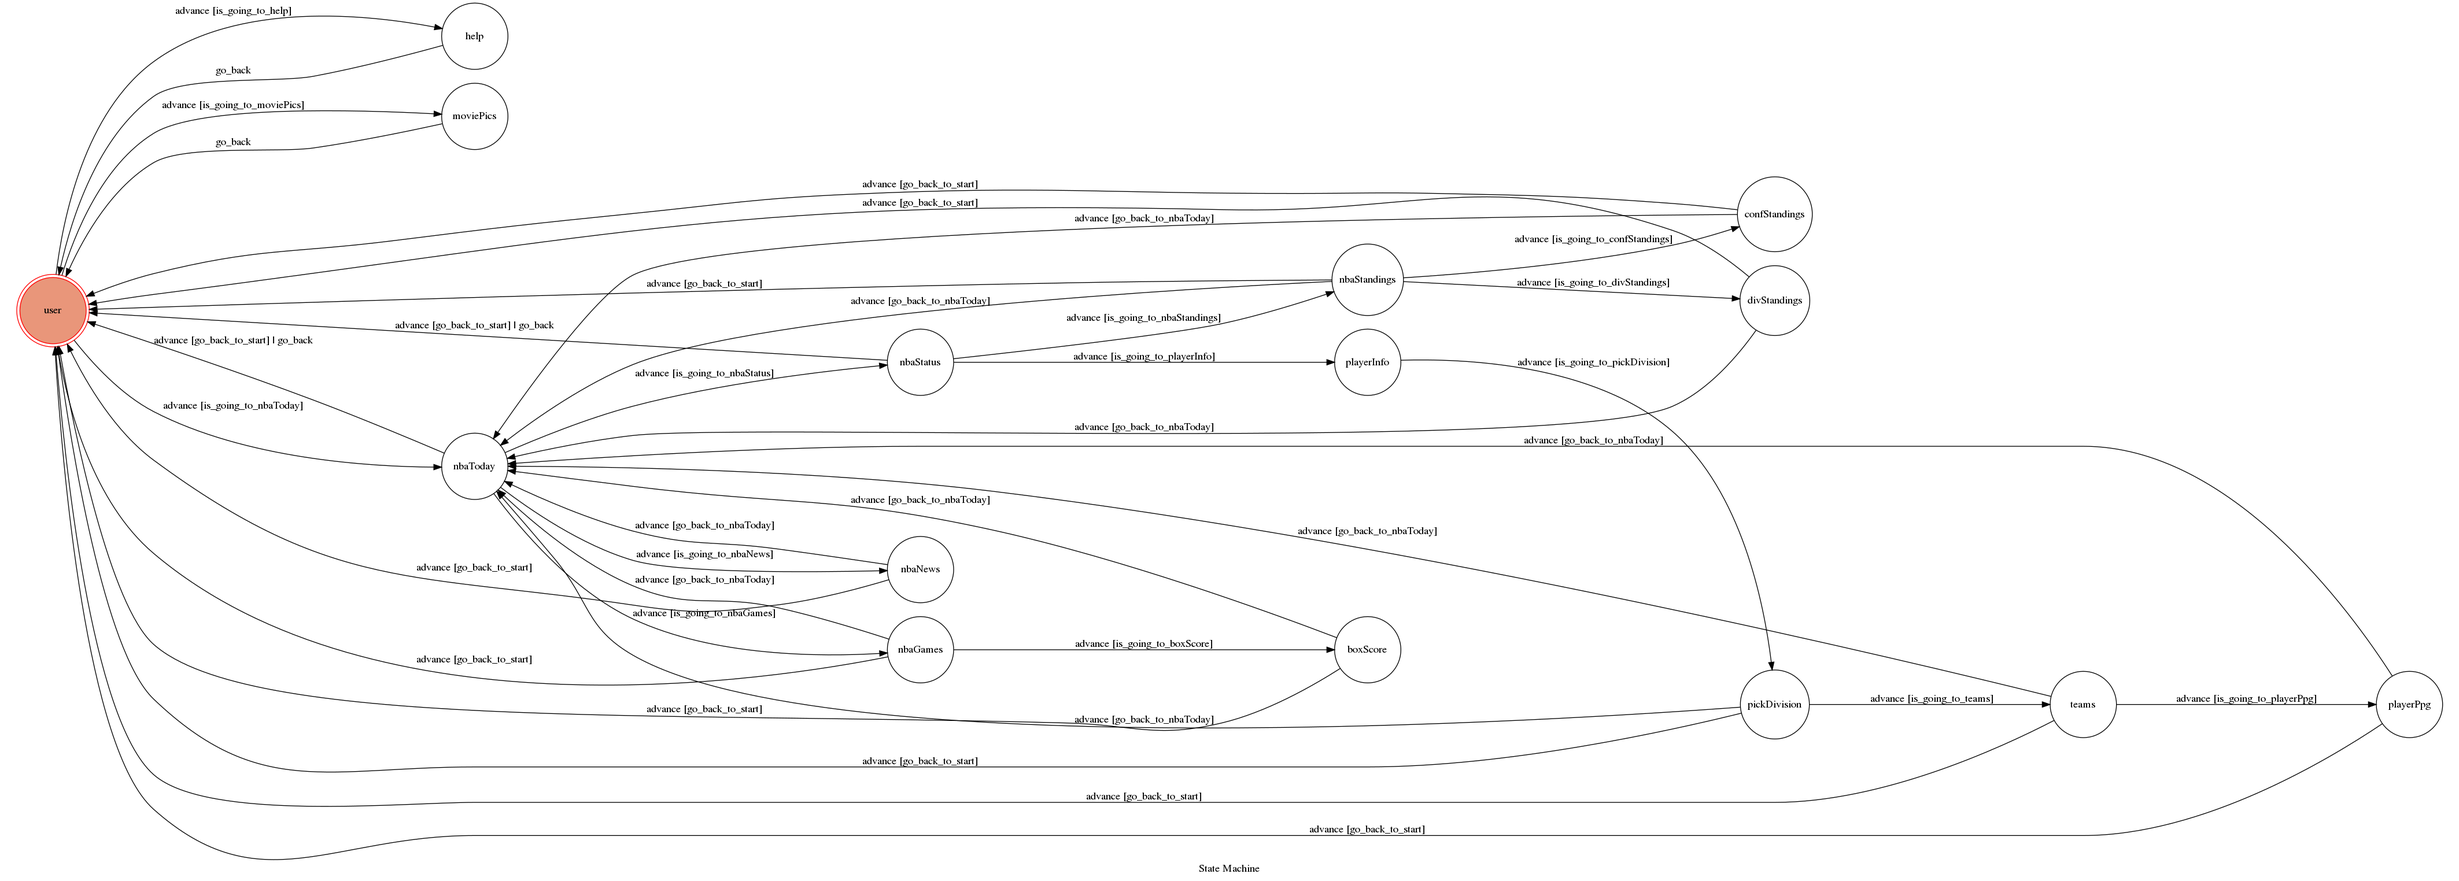
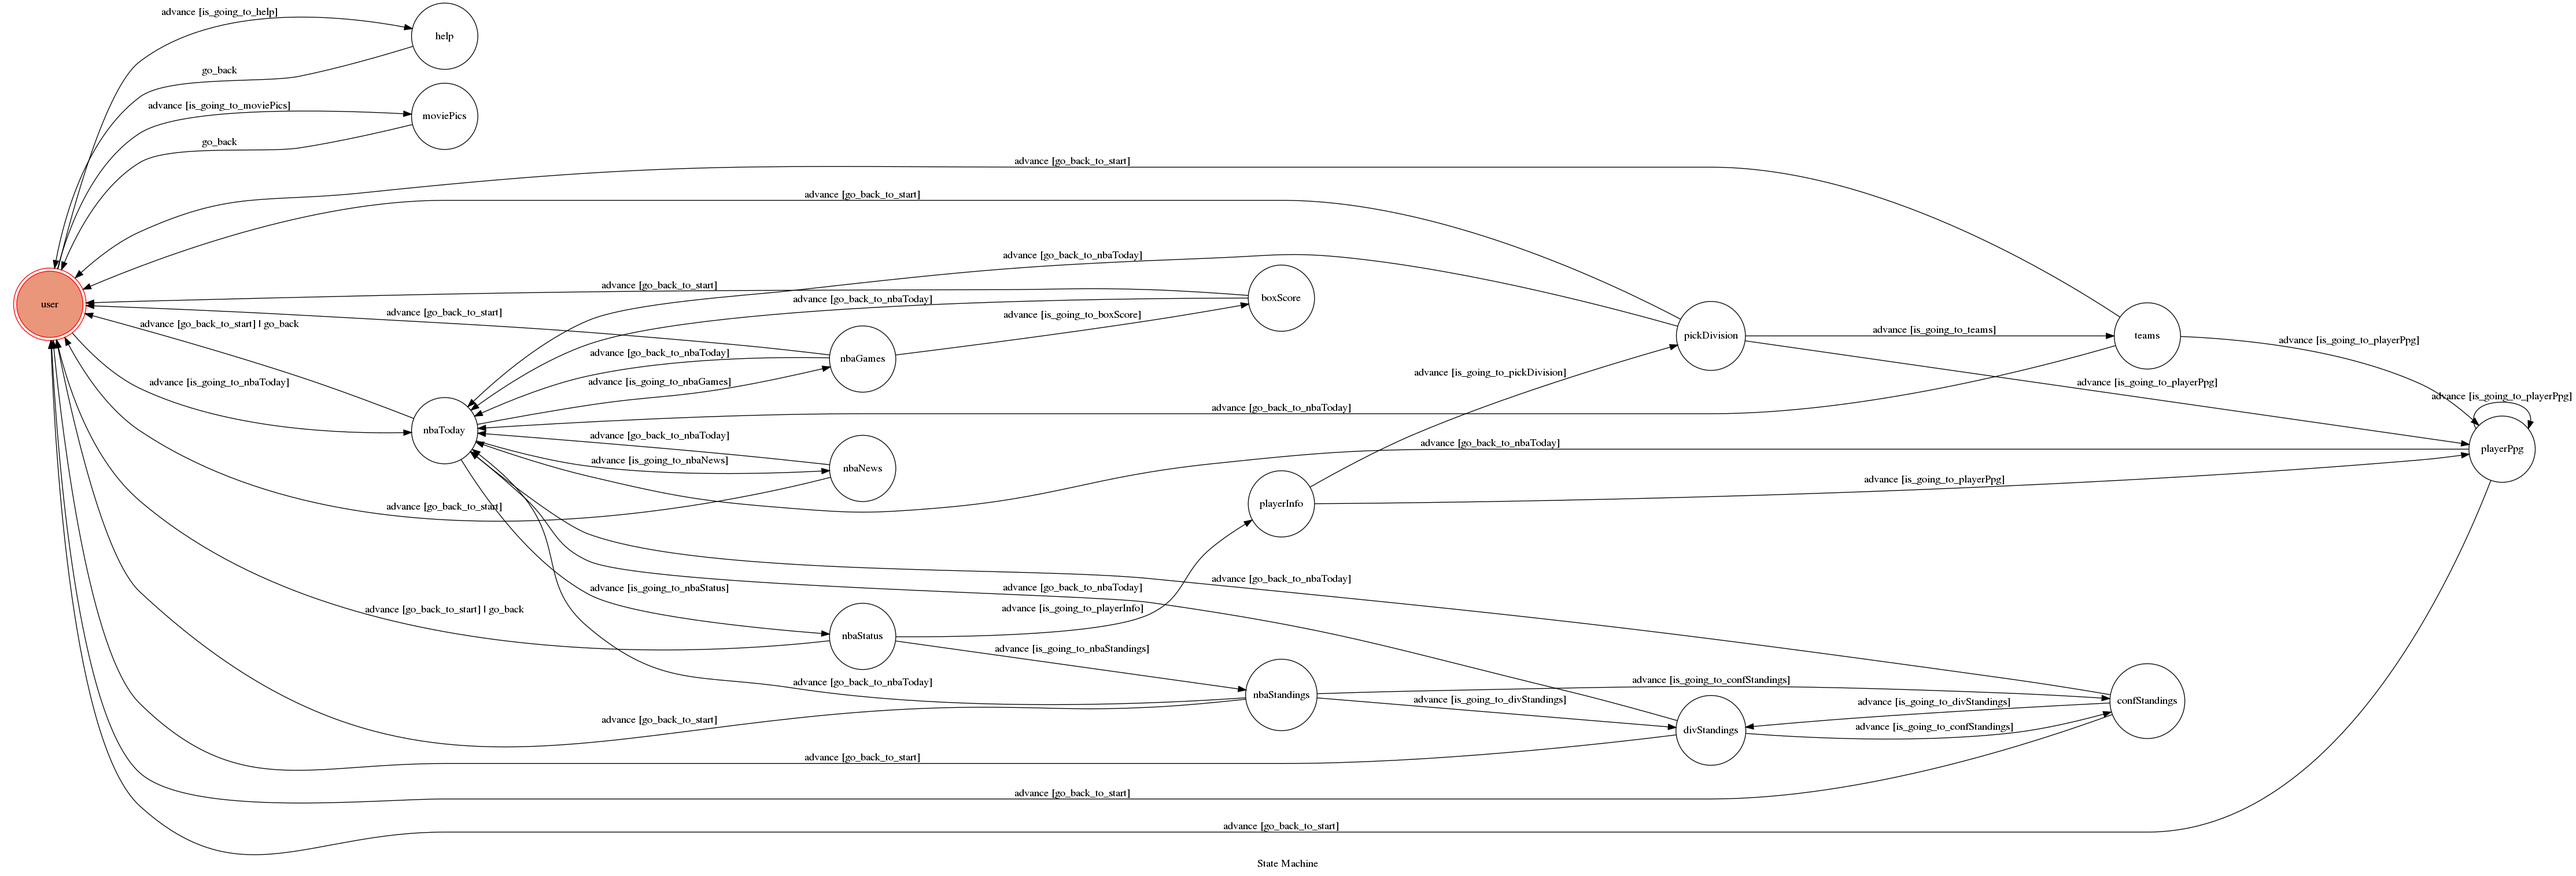
Allow going to playerPpg state from some else states

diff --git a/app.py b/app.py
@@ -93,6 +93,8 @@ machine = TocMachine(
         {
             'trigger': 'advance',
             'source': [
+                'playerInfo',
+                'pickDivision',
                 'teams',
                 'playerPpg'
             ],

diff --git a/README.md b/README.md
@@ -78,7 +78,7 @@ The initial state is set to `user`.
             * Input: "Division"
                 * Reply: go to `divStandings` show standings of each division
                 * ![](./img/divStandings.png)
-                * ****Notice that these 2 states (`confStandings`&`divStandings`) are not communicatable.
+                * ****Notice that these 2 states (`confStandings`&`divStandings`) are communicatable.
                 And then you can choose to keep exploring more NBA information or go back to user.
                 * Input: "More NBA"
                     * Reply: go to `nbaToday`
